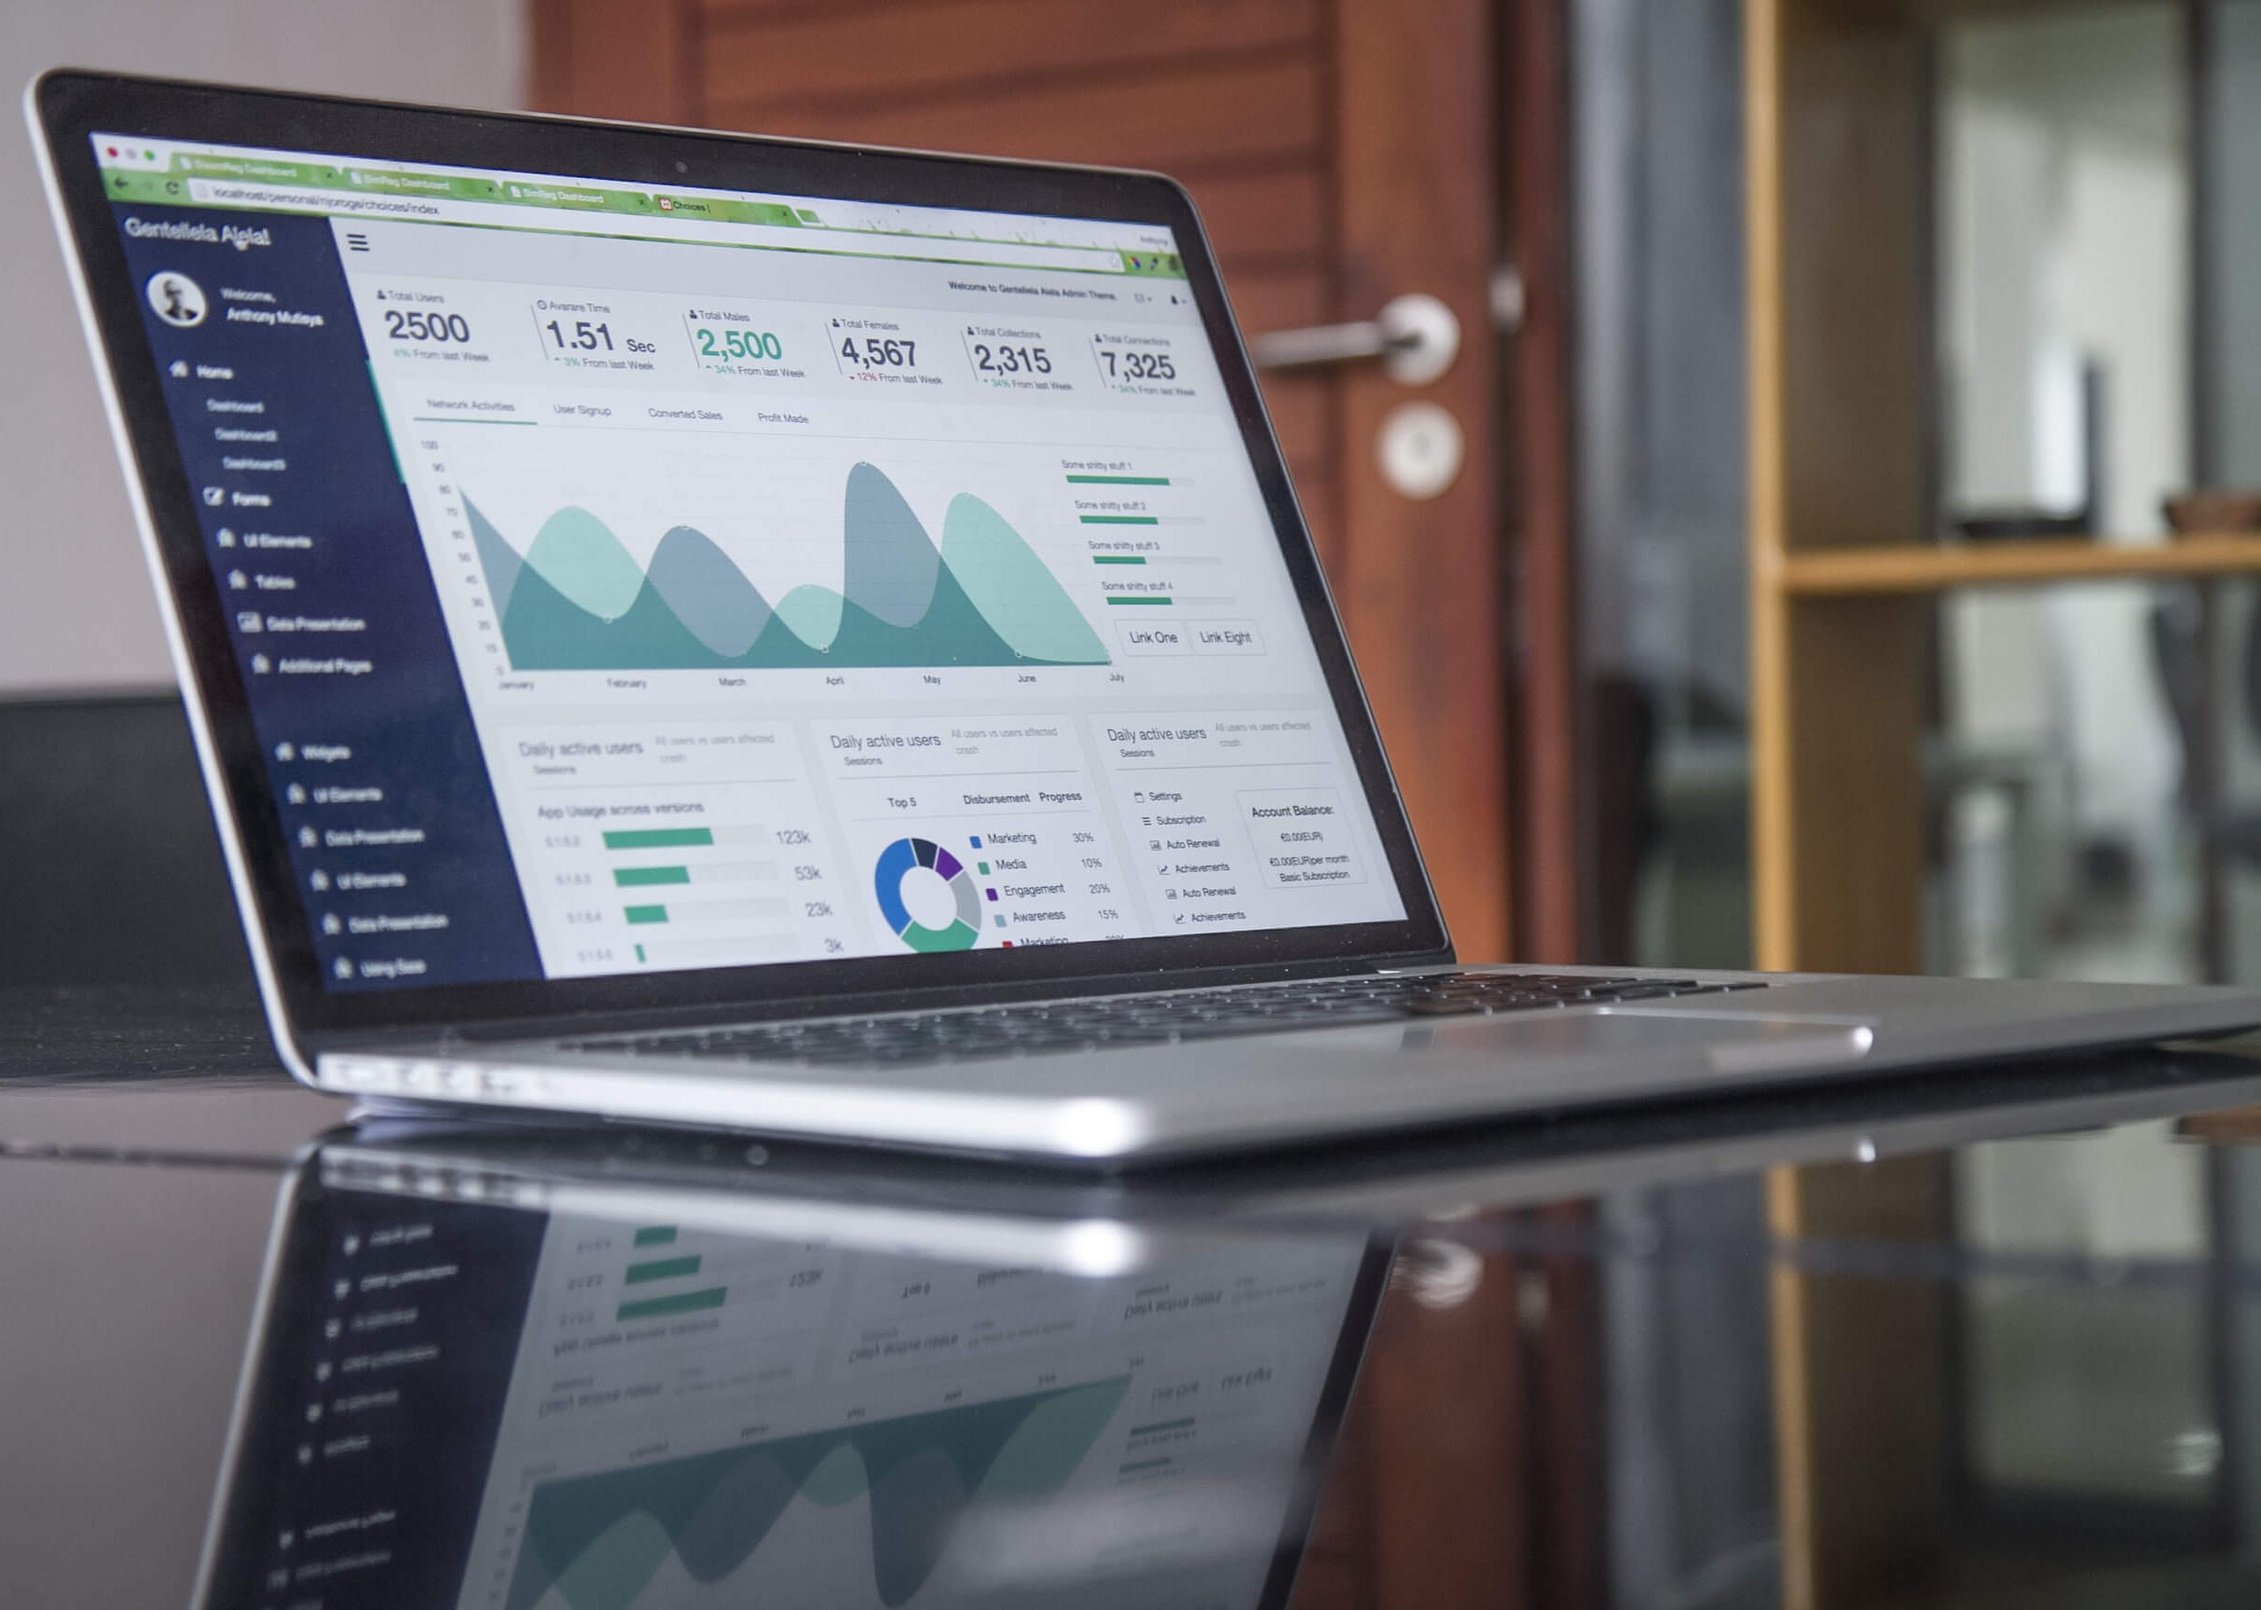
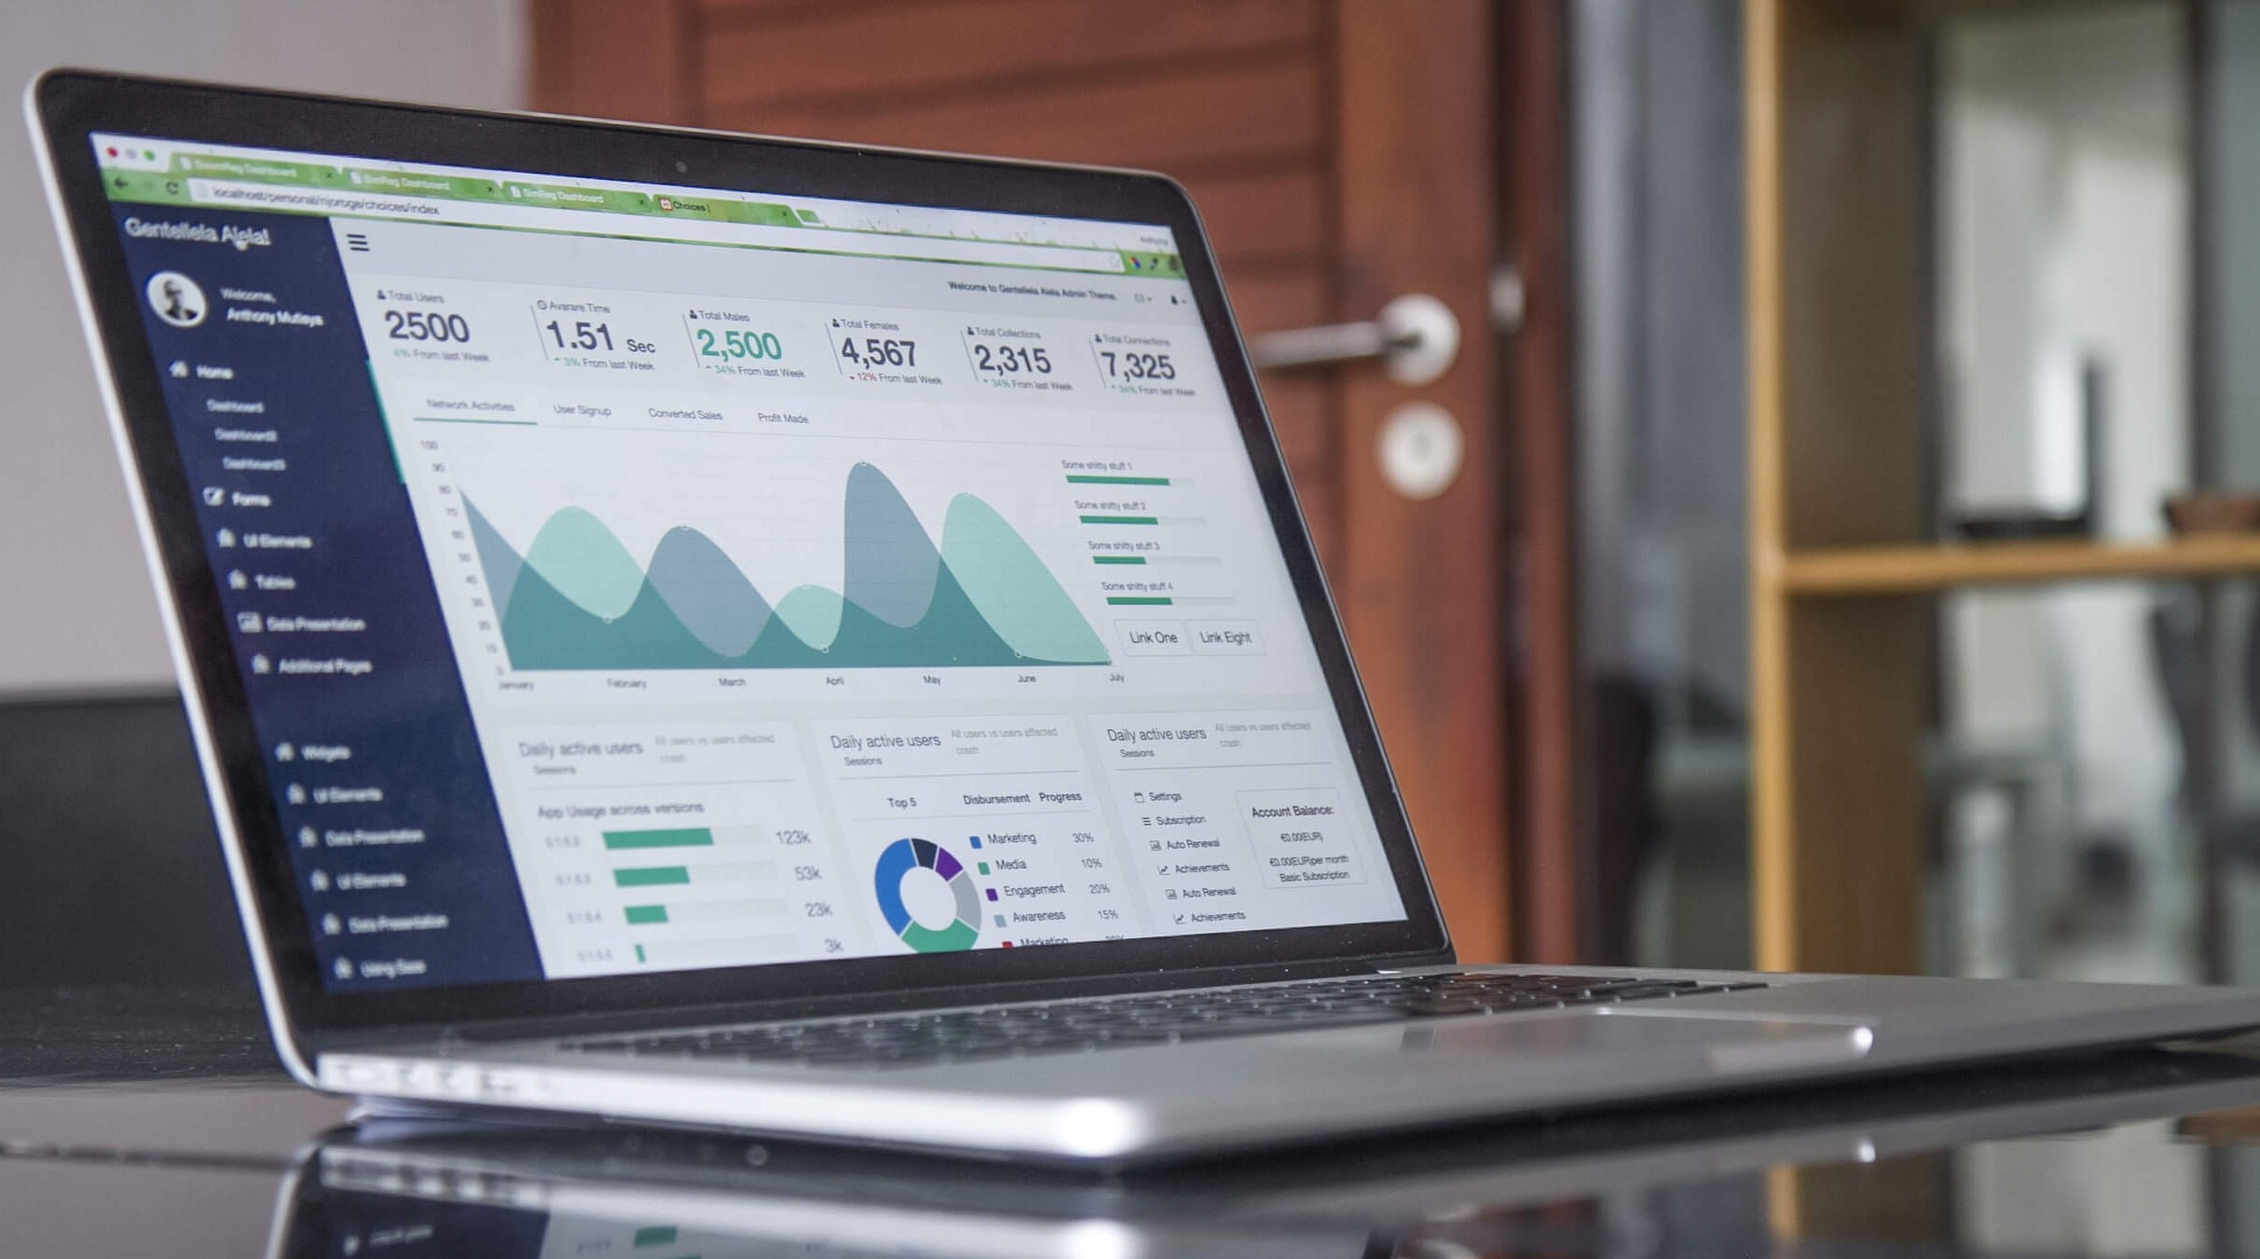
resized images

diff --git a/index.html b/index.html
@@ -147,7 +147,7 @@
 							
 
 							<a href="#" class="image featured"><img src="images/dashboard.jpg" alt="" 
-								height = 500 /></a>
+								/></a>
 									
 							<p style="color:rgb(4, 26, 26)"> I'm a lifetime student who is always seeking 
 								a fun challenge. I enjoy creating pretty visualizations and weaving narratives
